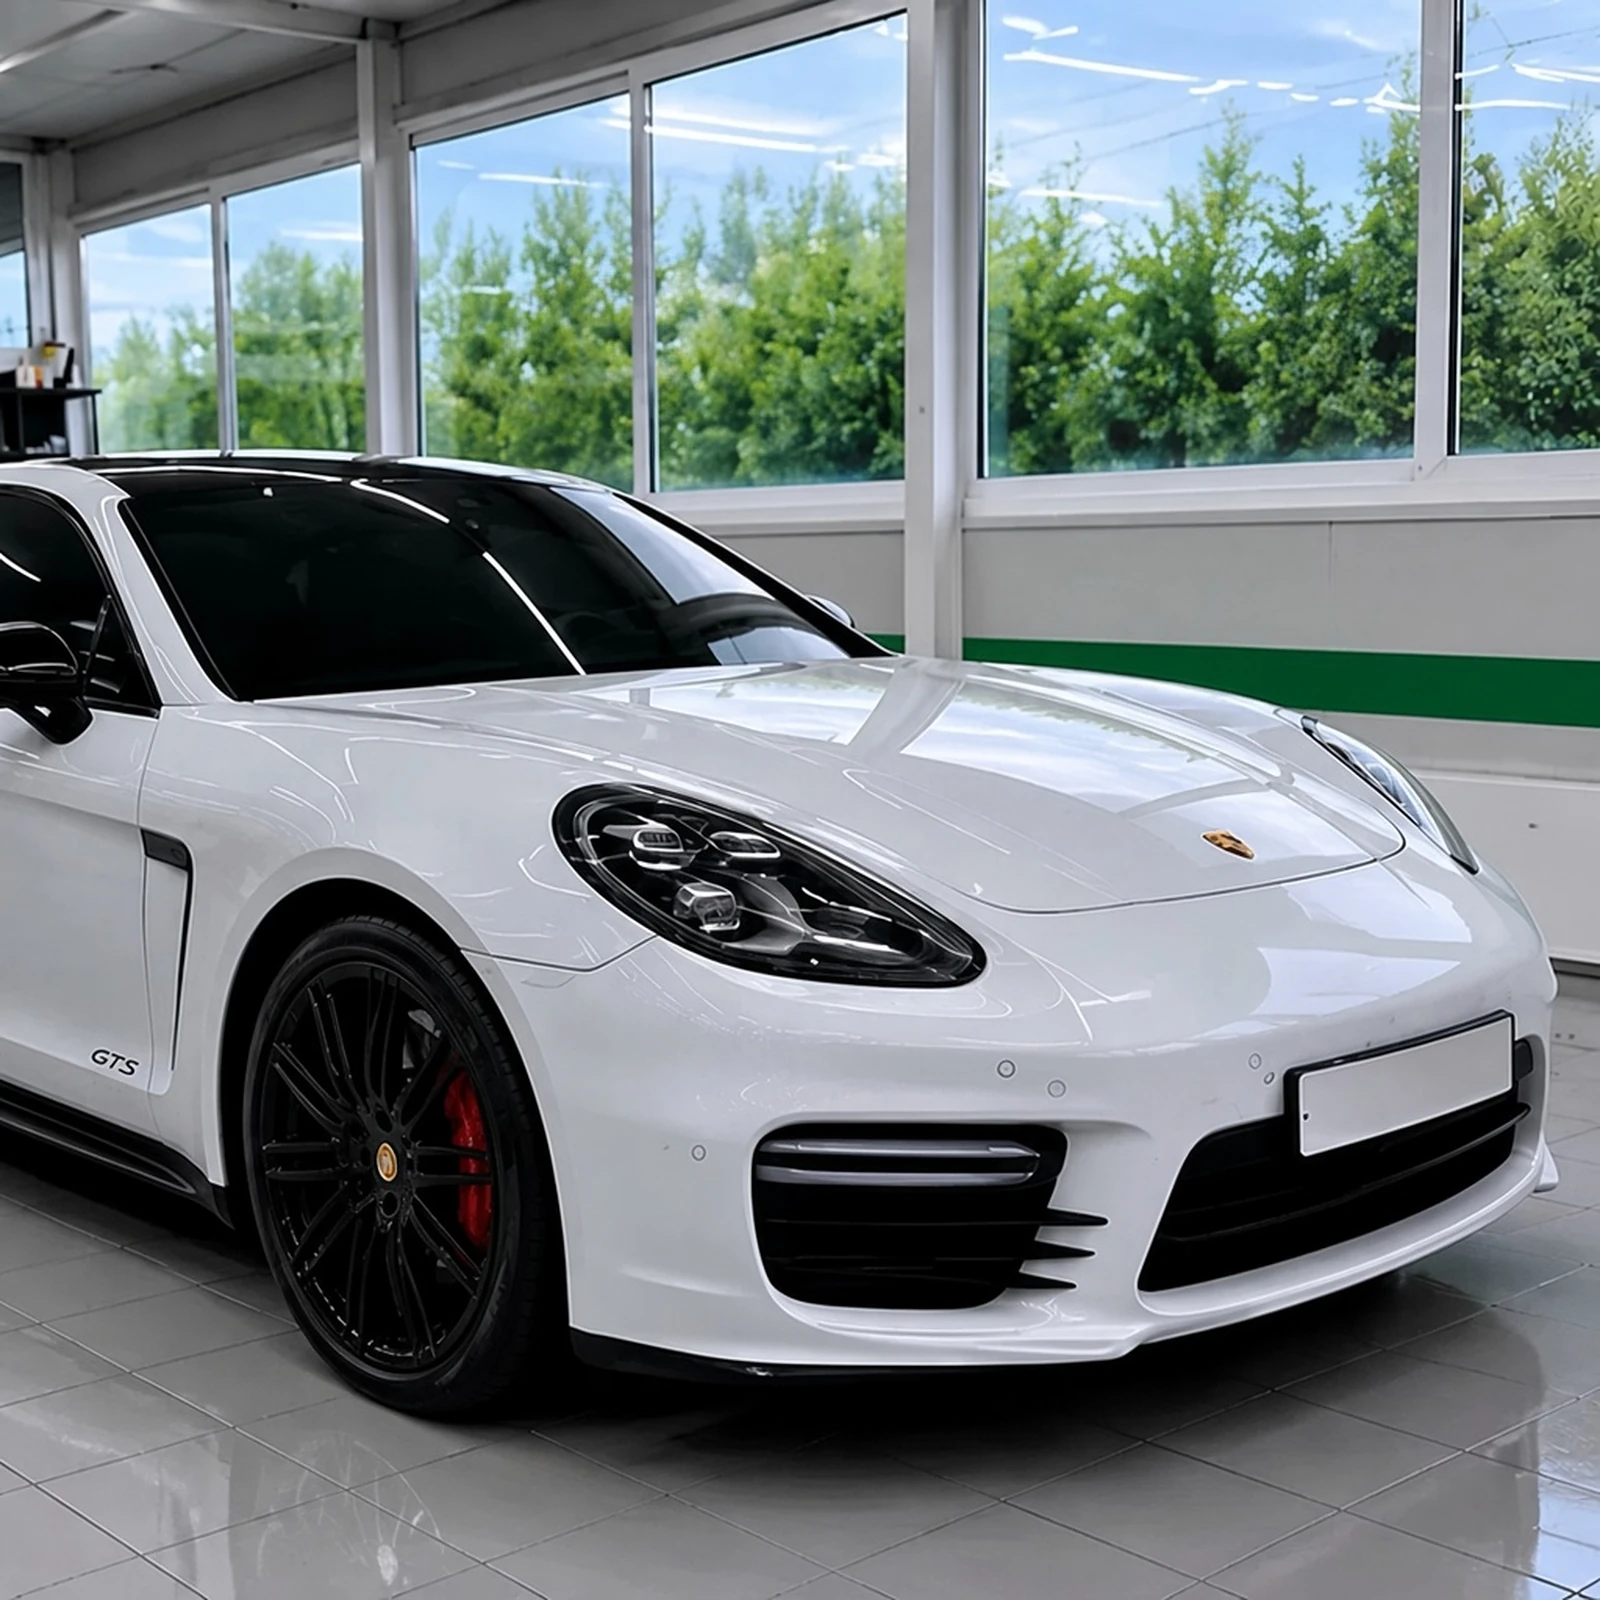
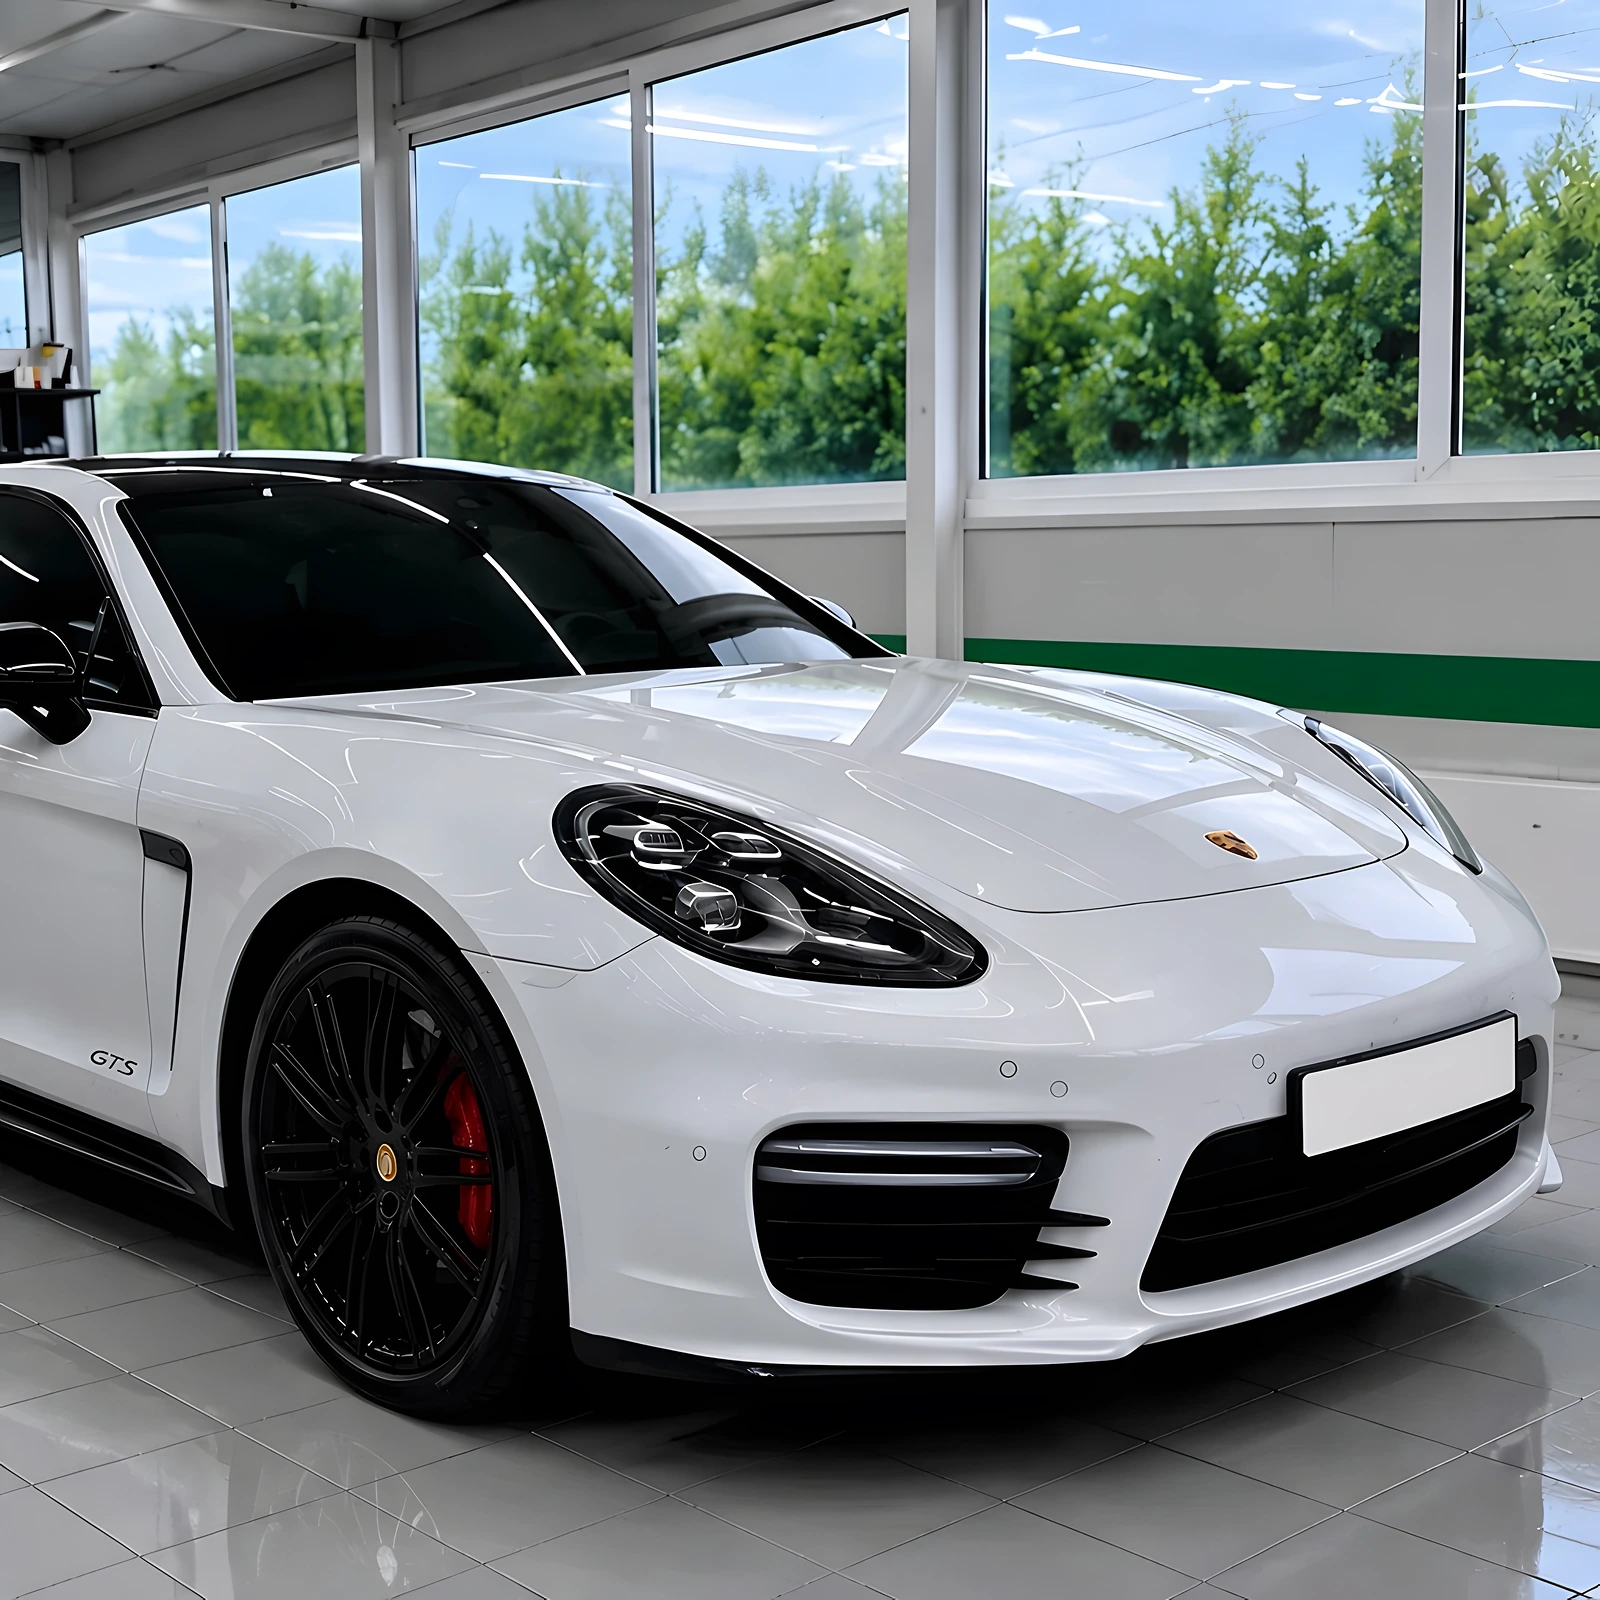
Шапка: резкость фона Panamera через Real-ESRGAN x4

diff --git a/index.html b/index.html
@@ -37,9 +37,9 @@
     <link rel="preconnect" href="https://fonts.gstatic.com" crossorigin />
     <link rel="preload" as="style" href="https://fonts.googleapis.com/css2?family=Inter:wght@400;500;600;700&amp;family=Unbounded:wght@400;500;600;700&amp;display=swap" />
     <link href="https://fonts.googleapis.com/css2?family=Inter:wght@400;500;600;700&amp;family=Unbounded:wght@400;500;600;700&amp;display=swap" rel="stylesheet" />
-    <link rel="preload" as="image" href="./images/hero/narrow-bg.webp?v=20261123h" media="(max-width: 767px)" type="image/webp" />
-    <link rel="preload" as="image" href="./images/hero/wide-bg.webp?v=20261123h" media="(min-width: 768px)" type="image/webp" />
-    <link rel="preload" as="image" href="./images/hero/wide-bg-4k.webp?v=20261123h" media="(min-width: 1300px)" type="image/webp" />
+    <link rel="preload" as="image" href="./images/hero/narrow-bg.webp?v=20261123sr" media="(max-width: 767px)" type="image/webp" />
+    <link rel="preload" as="image" href="./images/hero/wide-bg.webp?v=20261123sr" media="(min-width: 768px)" type="image/webp" />
+    <link rel="preload" as="image" href="./images/hero/wide-bg-4k.webp?v=20261123sr" media="(min-width: 1300px)" type="image/webp" />
 
     <link rel="stylesheet" href="./css/styles.css" />
     <link rel="stylesheet" href="./css/extras.css?v=e3c7db3" />
@@ -164,7 +164,7 @@
         Для просмотра сайта студии ML включите JavaScript. Детейлинг в Нижнем Новгороде: ул. Коминтерна, 43А, корп. 2. Телефон: +7 (999) 120-44-88.
       </p>
     </noscript>
-    <script src="./js/config.js?v=20261123h"></script>
+    <script src="./js/config.js?v=20261123sr"></script>
     <script src="./js/legal.js"></script>
     <script src="./js/app.js?v=e3c7db3"></script>
     <script src="./js/topbar.js"></script>

diff --git a/js/config.js b/js/config.js
@@ -81,7 +81,7 @@ window.ML_SITE = {
   },
   hero: {
     narrow: {
-      bg: "./images/hero/narrow-bg.webp?v=20261123h",
+      bg: "./images/hero/narrow-bg.webp?v=20261123sr",
       width: 1600,
       height: 1600,
       alt: "Porsche Panamera GTS в студии ML",
@@ -91,14 +91,14 @@ window.ML_SITE = {
       textSize: 0.106,
     },
     wide: {
-      bg: "./images/hero/wide-bg.webp?v=20261123h",
+      bg: "./images/hero/wide-bg.webp?v=20261123sr",
       width: 2048,
       height: 2048,
       focusX: 0.5,
       focusY: 0.48,
       textTop: 0.18,
       textSize: 0.106,
-      bg4k: "./images/hero/wide-bg-4k.webp?v=20261123h",
+      bg4k: "./images/hero/wide-bg-4k.webp?v=20261123sr",
     },
   },
   nav: [
